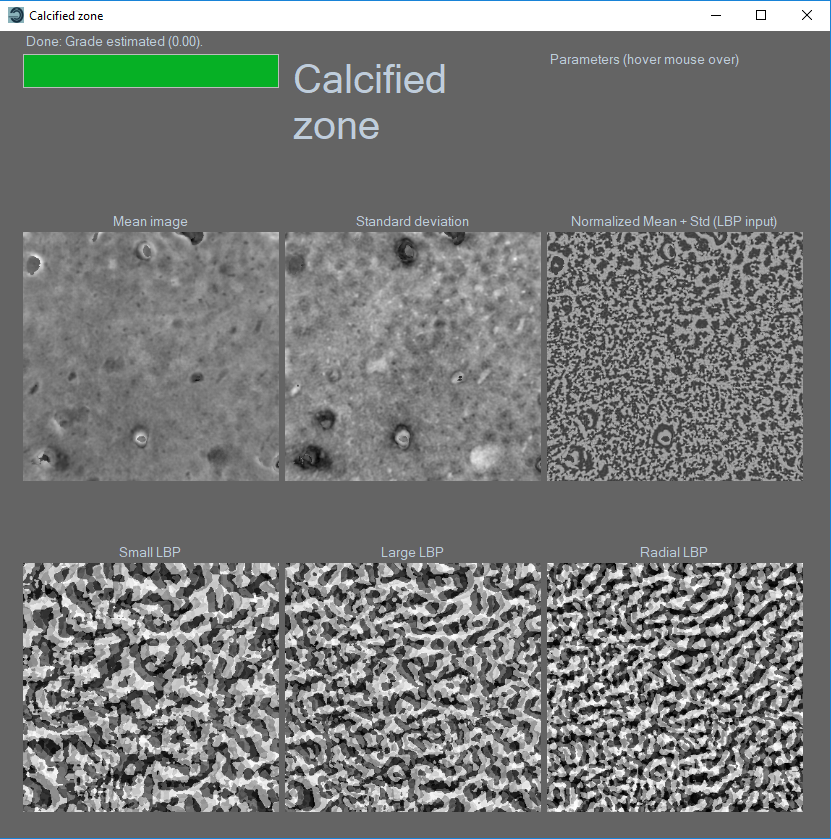
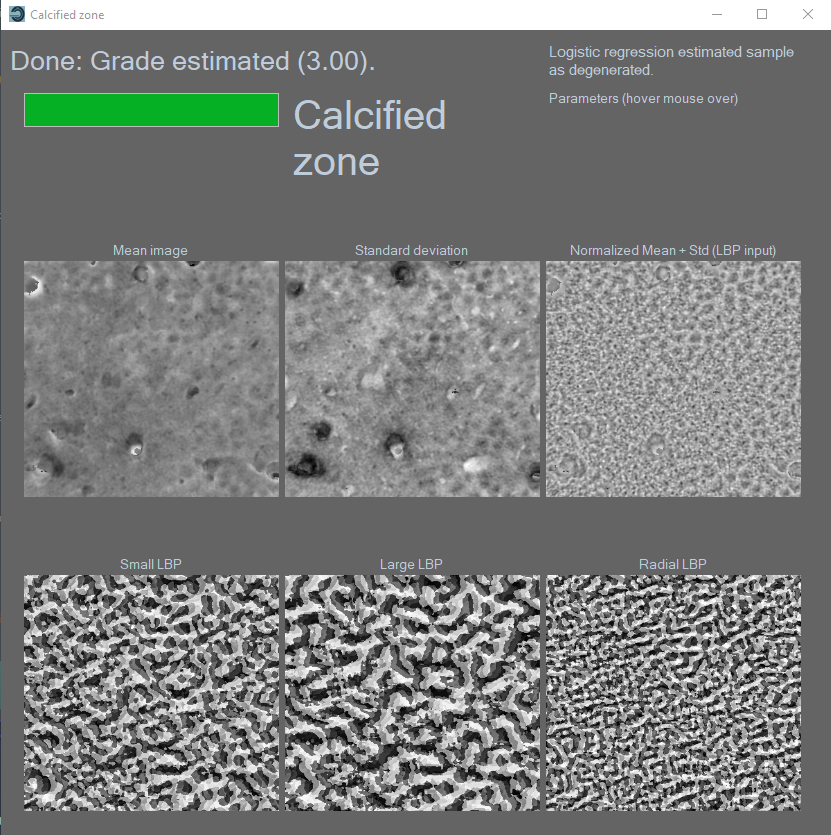
Updated pictures

diff --git a/3DHistoGrading/GradingForm.Designer.cs b/3DHistoGrading/GradingForm.Designer.cs
@@ -285,10 +285,10 @@
             // 
             this.logistic.Anchor = System.Windows.Forms.AnchorStyles.Left;
             this.logistic.AutoSize = true;
-            this.logistic.Font = new System.Drawing.Font("Microsoft Sans Serif", 15.75F, System.Drawing.FontStyle.Regular, System.Drawing.GraphicsUnit.Point, ((byte)(0)));
-            this.logistic.Location = new System.Drawing.Point(545, 17);
+            this.logistic.Font = new System.Drawing.Font("Microsoft Sans Serif", 11.25F, System.Drawing.FontStyle.Regular, System.Drawing.GraphicsUnit.Point, ((byte)(0)));
+            this.logistic.Location = new System.Drawing.Point(545, 21);
             this.logistic.Name = "logistic";
-            this.logistic.Size = new System.Drawing.Size(0, 25);
+            this.logistic.Size = new System.Drawing.Size(0, 18);
             this.logistic.TabIndex = 21;
             this.logistic.TextAlign = System.Drawing.ContentAlignment.MiddleLeft;
             // 

diff --git a/3DHistoGrading/GradingForm.designer.cs b/3DHistoGrading/GradingForm.designer.cs
@@ -285,10 +285,10 @@
             // 
             this.logistic.Anchor = System.Windows.Forms.AnchorStyles.Left;
             this.logistic.AutoSize = true;
-            this.logistic.Font = new System.Drawing.Font("Microsoft Sans Serif", 15.75F, System.Drawing.FontStyle.Regular, System.Drawing.GraphicsUnit.Point, ((byte)(0)));
-            this.logistic.Location = new System.Drawing.Point(545, 17);
+            this.logistic.Font = new System.Drawing.Font("Microsoft Sans Serif", 11.25F, System.Drawing.FontStyle.Regular, System.Drawing.GraphicsUnit.Point, ((byte)(0)));
+            this.logistic.Location = new System.Drawing.Point(545, 21);
             this.logistic.Name = "logistic";
-            this.logistic.Size = new System.Drawing.Size(0, 25);
+            this.logistic.Size = new System.Drawing.Size(0, 18);
             this.logistic.TabIndex = 21;
             this.logistic.TextAlign = System.Drawing.ContentAlignment.MiddleLeft;
             // 
